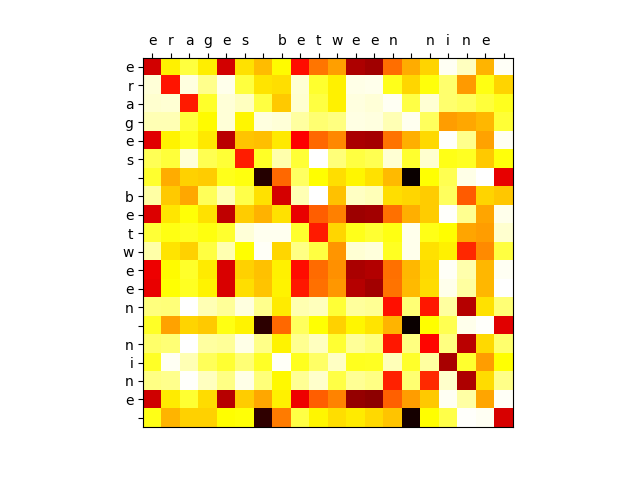
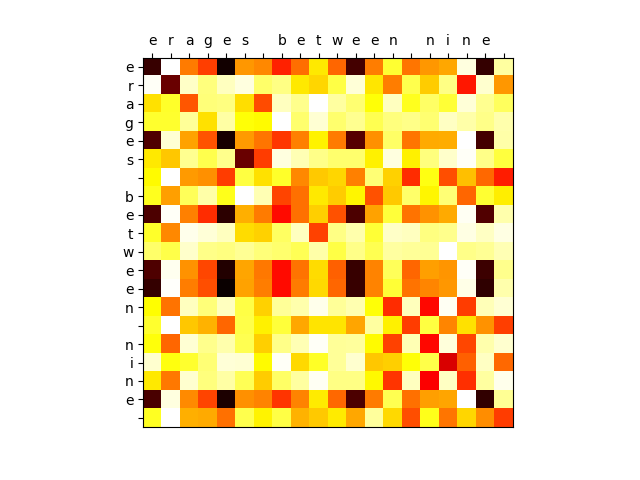
Part 2, Version 4 FINAL- Oracle and Fancy working- first submission to Gradescope. Changes to Transformer to improve run time for Transformer- was Timing out on Gradescope- now at 50/50- took out linear layer weight initialization and changed early epoch learning rate
Completed Oracle and Fancy
Oracle needs >55%, currently @ 0.62
Fancy needs > 51% currently @ 0.516

diff --git a/transformer.py b/transformer.py
@@ -53,19 +53,9 @@ class Transformer(nn.Module):
                 for _ in range (num_layers)
                 ]
         )
-
-
         self.softmax = nn.LogSoftmax(dim = 1)
         self.final_linear = nn.Linear(d_model, num_classes)
-        nn.init.xavier_uniform_(self.final_linear.weight)  # initialize weights for linear class
-
-
-
-
-        # initialize weights for linear class
-
-
-
+        #nn.init.xavier_uniform_(self.final_linear.weight)  # initialize weights for linear class
 
     def forward(self, indices):
         """
@@ -77,15 +67,13 @@ class Transformer(nn.Module):
 
         emb = self.input_embedding(indices) #assumes indicies is one sample, output: 20x20 tensor, input 1 tensor 20x1
         pos = self.positional.forward(emb) #seq len, embedding dim, output 20x20tensor
-        pos.requires_grad_(True)
+        #pos.requires_grad_(True)
         for layer in self.transform_layers:
             (x, attn_maps) = layer.forward(pos)
             pos = x
         #(out, attn_maps) = self.transform_layer(pos) #this assumes one layer
-        #out = torch.asarray(self.FFNN(out)) #output should be d_model x num_classes
         out = self.final_linear(x)
         out = self.softmax(out)
-        #out = torch.asarray(out)
 
         attn_maps = [torch.asarray(attn_maps)] #to return list of attention maps
         return (out, attn_maps)
@@ -110,13 +98,13 @@ class TransformerLayer(nn.Module):
         self.d_ffn = 320 #becuase I did- no reasoning behind size except to blow it up a little <100
 
         self.query = nn.Linear(self.seq_len, self.d_internal, bias=False)
-        nn.init.xavier_uniform_(self.query.weight)  # initialize weights for linear class
+        #nn.init.xavier_uniform_(self.query.weight)  # initialize weights for linear class
 
         self.key = nn.Linear(self.seq_len, self.d_internal, bias=False)
-        nn.init.xavier_uniform_(self.key.weight)  # initialize weights for linear class
+       # nn.init.xavier_uniform_(self.key.weight)  # initialize weights for linear class
 
         self.value = nn.Linear(self.seq_len, self.d_model, bias=False)
-        nn.init.xavier_uniform_(self.value.weight)  # initialize weights for linear class
+       # nn.init.xavier_uniform_(self.value.weight)  # initialize weights for linear class
 
         #self.FFNN = nn.Sequential(nn.Linear(self.d_model, self.d_ffn, bias=False),
         #                          nn.ReLU(),
@@ -125,14 +113,14 @@ class TransformerLayer(nn.Module):
         self.nonlin = nn.ReLU()
         self.FFNN_lin2 = nn.Linear(self.d_ffn, self.d_model, bias = False)
 
-        nn.init.xavier_uniform_(self.FFNN_lin1.weight)  # initialize weights for linear class
-        nn.init.xavier_uniform_(self.FFNN_lin2.weight)  # initialize weights for linear class
+       # nn.init.xavier_uniform_(self.FFNN_lin1.weight)  # initialize weights for linear class
+        #nn.init.xavier_uniform_(self.FFNN_lin2.weight)  # initialize weights for linear class
 
         self.linear_attn = nn.Linear(self.seq_len, self.d_model, bias=False)
-        nn.init.xavier_uniform_(self.linear_attn.weight)  # initialize weights for linear class
+        #nn.init.xavier_uniform_(self.linear_attn.weight)  # initialize weights for linear class
 
         self.linear = nn.Linear(self.d_model, 3, bias=False)
-        nn.init.xavier_uniform_(self.linear.weight)  # initialize weights for linear class
+        #nn.init.xavier_uniform_(self.linear.weight)  # initialize weights for linear class
 
         self.softmax = nn.LogSoftmax(dim = 1)
 
@@ -151,16 +139,14 @@ class TransformerLayer(nn.Module):
 
         attention_out = self.linear_attn(torch.matmul(attn_map, value)) + input_vecs # output dimensions = seq_len by d_model 20x20
         #normalize??
-        attention_out = self.norm1(attention_out)
+        #attention_out = self.norm1(attention_out)
 
         #replication sequential model while having learnable weights
         ffnn_out = self.nonlin(self.FFNN_lin1(attention_out))
         ffnn_out = self.FFNN_lin2(ffnn_out)
 
         ffnn_out = ffnn_out + attention_out #normalize??
-        ffnn_out = self.norm2(ffnn_out)
-
-
+        #ffnn_out = self.norm2(ffnn_out)
         return (ffnn_out, attn_map)
 
 
@@ -198,12 +184,8 @@ class PositionalEncoding(nn.Module):
         else:
             return x + self.emb(indices_to_embed)
 
-
-
-
 def train_classifier(args, train, dev):
     ##PARAMETERS
-
     d_model = 20 #embedding dim
     d_internal = 500
     num_layers = 1
@@ -230,17 +212,23 @@ def train_classifier(args, train, dev):
             labels = y
 
     vocab = torch.unique(embeddings)
-    vocab_size = len(vocab)
+    vocab_size = len(vocab) #true calc of vocab size- should still be 27 but not hardcoded
 
     model = Transformer(vocab_size, num_positions, d_model, d_internal, num_classes, num_layers)  # vocab_size, num_positions, d_model, d_internal, num_classes, num_layers
     model.train()
     optimizer = optim.Adam(model.parameters(), lr=learning_rate)
 
-
     for t in range(0, epochs):
+        if t == 0:
+            learning_rate = .00001
+        elif t == 1:
+            learning_rate = 0.5
+        elif t==2:
+            learning_rate = 0.001
+        else:
+            learning_rate = 0.0001
         loss_this_epoch = 0.0
         #random.seed(t)
-
         # You can use batching if you'd like
         ex_idxs = [i for i in range(0, len(train))]
         random.shuffle(ex_idxs)
@@ -248,10 +236,7 @@ def train_classifier(args, train, dev):
         for ex_idx in ex_idxs:
             model.zero_grad()
             (output, attention) = model.forward(embeddings[ex_idx])
-
             loss = loss_fcn(output, labels[ex_idx])
-            #loss.requires_grad = True  # this means that some tesnor inputs don't have grad- need to locate and enable??
-
             loss.backward()
             optimizer.step()
             loss_this_epoch += loss.item()
